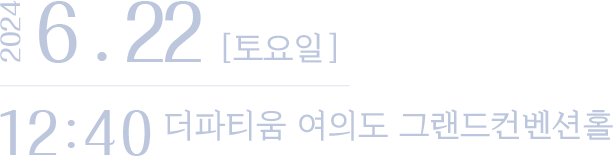
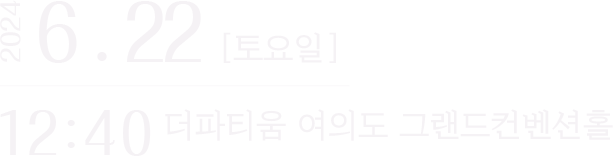
Change :: 오시는 아이콘, 마음, 푸터 추가

diff --git a/src/components/WeddingCalendar.vue b/src/components/WeddingCalendar.vue
@@ -16,21 +16,32 @@
     </div>
     <div class="calendar-body">
       <div class="body-wrapper">
-        <h3 class="title">날짜</h3>
-        <img class="image calendar-image" src="./../assets/image/calendar.png"/>
-        <h3 class="title">오시는 길</h3>
-        <img class="image" src="./../assets/image/map.png"/>
-        <div class="map-address-wrapper">
-          <div>도로명주소</div>
-          <div>서울시 영등포구 은행로 30 (여의도동, 중소기업중앙회)</div>
-          <div>지번주소</div>
-          <div>서울시 영등포구 여의도동 16-2 중소기업중앙회</div>
+        <div class="body-content">
+          <div class="title">2024 / 06</div>
+          <img class="image calendar-image" src="./../assets/image/calendar.png"/>
         </div>
-        <div class="map-icon-wrapper">
-          <div class="map-icon"></div>
-          <div class="map-icon"></div>
-          <div class="map-icon"></div>
-          <div class="map-icon"></div>
+        <div class="body-content">
+          <div class="title">오시는 길</div>
+          <img class="image" src="./../assets/image/map.png"/>
+          <div>
+            <div class="map-title">도로명주소</div>
+            <div class="map-address-wrapper">
+              <div>서울시 영등포구 은행로 30</div>
+              <div>(여의도동, 중소기업중앙회)</div>
+            </div>
+            <div class="map-title">지번주소</div>
+            <div class="map-address-wrapper">
+              <div>서울시 영등포구 여의도동 16-2</div>
+              <div>중소기업중앙회</div>
+            </div>
+
+          </div>
+          <div class="map-icon-wrapper">
+            <div class="map-icon naver-map"></div>
+            <div class="map-icon kakao-map"></div>
+            <div class="map-icon t-map"></div>
+            <div class="map-icon copy"></div>
+          </div>
         </div>
       </div>
     </div>
@@ -42,8 +53,15 @@
   justify-content: center;
   flex-direction: column;
   align-items: center;
-
   width: 100%;
+
+  font-size: 1.4rem;
+  @include tablet {
+    font-size: 1.6rem;
+  }
+  @include desktop {
+    font-size: 2rem;
+  }
 
 
   .calendar-title {
@@ -59,7 +77,6 @@
     }
 
     @include desktop {
-      font-size: 2rem;
       width: 1200px;
       margin: 0;
       left: calc((100% - 1200px) / 2);
@@ -139,7 +156,6 @@
     }
 
     @include desktop {
-      font-size: 2rem;
       width: 1200px;
       margin: 0;
       left: calc((100% - 1200px) / 2);
@@ -151,44 +167,82 @@
       border-radius: 10px 10px 0 0;
       padding: 20px;
       margin: 16px 16px 0 16px;
+      display: flex;
+      flex-direction: column;
+      align-items: center;
+      gap: 40px;
 
-      .image {
-        margin-top: 20px;
-        width: 100%;
-        max-width: 600px;
-      }
+      .body-content {
 
-      .title {
-        color: $light-color-2;
-        text-align: center;
-        font-family: leferi-special;
-      }
+        .image {
+          margin-top: 20px;
+          width: 100%;
+          max-width: 600px;
+        }
 
-      .calendar-image {
-        padding-left: 12px;
-        margin-bottom: 20px;
-      }
+        .title {
+          color: $lighter-color-1;
+          text-align: center;
+          font-size: 120%;
+          font-family: leferi-special;
+        }
 
-      .map-address-wrapper {
-        font-family: leferi-white;
-      }
+        .calendar-image {
+          padding-left: 12px;
+          margin-bottom: 20px;
+        }
 
-      .map-icon-wrapper {
-        display: flex;
-        flex-direction: row;
+        .map-title {
+          margin-top: 10px;
+          color: $lighter-color-1;
+          font-family: leferi;
+        }
 
-        gap: 20px;
-        padding: 20px 0;
+        .map-address-wrapper {
+          display: flex;
+          flex-direction: row;
+          flex-wrap: wrap;
+          font-family: leferi;
+          color: $light-color-2;
 
-        .map-icon {
-          width: 100px;
-          aspect-ratio: 1 / 1;
-          background: pink;
-          border-radius: 50%;
+          div {
+            font-family: leferi-white;
+            padding-right: 8px;
+          }
+        }
 
+        .map-icon-wrapper {
+          display: flex;
+          flex-direction: row;
+          justify-content: space-between;
+          gap: 20px;
+          padding: 30px 0 20px 0;
+
+          .map-icon {
+            width: 20%;
+            max-width: 80px;
+            aspect-ratio: 1 / 1;
+            background: pink;
+            border-radius: 50%;
+
+            &.naver-map {
+              background: center / 150% no-repeat url("../assets/icon/naver_map.png"), white;
+            }
+
+            &.kakao-map {
+              background: center / 90% no-repeat url("../assets/icon/kakao_map.png"), #ffdf00;
+            }
+
+            &.t-map {
+              background: center / 80% no-repeat url("../assets/icon/t_map.svg"), white;
+            }
+
+            &.copy {
+              background: center / 55% no-repeat url("../assets/icon/copy.png"), $lighter-color-1;;
+            }
+          }
         }
       }
-
     }
   }
 

diff --git a/src/components/WeddingFooter.vue b/src/components/WeddingFooter.vue
@@ -1,0 +1,77 @@
+<script>
+</script>
+<template>
+  <div class="footer">
+    <div class="footer-contents">
+      <div>
+        <div>
+          @2024 김혜림
+        </div>
+        <div>
+          GitHub @kimering/<a href="https://github.com/kimering/wedding-card">Wedding-Card</a>
+        </div>
+        <div>
+          LICENSE: CoffeeWare
+        </div>
+      </div>
+      <div class="credit">
+        <div class="credit-role">
+          <div>Produced by</div>
+          <div>Design by</div>
+          <div>Developed by</div>
+          <div>Cheered by</div>
+        </div>
+        <div class="credit-name">
+          <div>김혜림</div>
+          <div>김혜림</div>
+          <div>김혜림</div>
+          <div>김태훈</div>
+        </div>
+      </div>
+    </div>
+  </div>
+</template>
+<style lang="scss">
+.footer {
+  display: flex;
+  flex-direction: column;
+  align-items: center;
+  width: 100vw;
+  padding: 40px 20px;
+  color: black;
+  background-color: #f5f2f5;
+
+  font-size: 2rem;
+  @include tablet {
+    font-size: 2.4rem;
+  }
+  @include desktop {
+    font-size: 2.8rem;
+  }
+
+  .footer-contents {
+    display: flex;
+    flex-direction: row;
+    font-size: 50%;
+    gap: 20px;
+    width: 100%;
+    max-width: 1100px;
+    justify-content: space-between;
+    color: $dark-color-1;
+    font-family: 'Chosunilbo_myungjo';
+
+    .credit {
+      display: flex;
+      flex-direction: row;
+      gap: 12px;
+
+      .credit-role {
+
+      }
+
+      .credit-name {
+      }
+    }
+  }
+}
+</style>

diff --git a/src/components/WeddingContact.vue b/src/components/WeddingContact.vue
@@ -1,0 +1,69 @@
+<script setup>
+</script>
+
+<template>
+  <div class="wedding-contact">
+    <div class="contact-card">
+      <img class="image" src="./../assets/image/sopung_hi.png"/>
+      <div class="contact-card-contents">
+        <div class="title">전하는 말씀</div>
+      </div>
+      <div class="contact-card-contents">
+        <div class="title">연락주실 곳</div>
+      </div>
+    </div>
+  </div>
+</template>
+
+
+<style lang="scss">
+.wedding-contact {
+  margin-top: 20px;
+
+  display: flex;
+  flex-direction: column;
+  align-items: center;
+
+  .contact-card {
+    display: flex;
+    flex-direction: column;
+    align-items: center;
+    background: linear-gradient(to right, #e5ebf2, #a7bbde);
+    border-radius: min(300px, 45vw) min(300px, 45vw) 0 0;
+    text-align: center;
+    width: 100%;
+    color: $dark-color-1;
+
+    font-size: 1.4rem;
+    @include mobile {
+      margin: 0;
+    }
+    @include tablet {
+      width: calc(100% - 60px);
+      font-size: 2rem;
+    }
+
+    @include desktop {
+      width: 1200px;
+      font-size: 2.4rem;
+    }
+
+    .image {
+      padding-top: 30px;
+      width: 50%;
+      max-width: 400px;
+    }
+
+    .contact-card-contents {
+      padding: 20px 0;
+
+      .title {
+        font-size: 120%;
+        font-family: leferi-special;
+      }
+    }
+  }
+
+}
+
+</style>

diff --git a/src/components/WeddingTitle.vue b/src/components/WeddingTitle.vue
@@ -9,9 +9,10 @@
       <div class="title-card-text">
         서로가 서로에게 기꺼이 <br/>
         당신의 유일이 되리라 다짐했습니다. <br/><br/>
-        하나가 되는 날, <br/>
-        오셔서 축하해 주시면 <br/>
-        더없는 기쁨이겠습니다. <br/>
+        하나가 되기로 약속하는 날,<br/>
+        귀한 걸음 함께해 주시기를 기대하겠습니다. <br/>
+        나누어 주시는 모든 격려와 축하를 <br/>
+        저희 두 사람의 오랜 기쁨으로 간직하겠습니다. <br/>
       </div>
       <img class="title-star" src="./../assets/icon/square_star.png"/>
 
@@ -100,8 +101,14 @@
           /*color: red;*/
           font-family: leferi-special;
           color: $dark-color-1;
-          font-size: 20px;
           font-weight: normal;
+          font-size: 2rem;
+          @include tablet {
+            font-size: 2.4rem;
+          }
+          @include desktop {
+            font-size: 2.8rem;
+          }
         }
       }
     }

diff --git a/src/App.vue b/src/App.vue
@@ -2,8 +2,9 @@
 import HelloWedding from "@/components/HelloWedding.vue";
 import WeddingTitle from "@/components/WeddingTitle.vue";
 import PhotoCircle from "@/components/PhotoCircle.vue";
-import WeddingPay from "@/components/WeddingPay.vue";
+import WeddingContact from "@/components/WeddingContact.vue";
 import WeddingCalendar from "@/components/WeddingCalendar.vue";
+import WeddingFooter from "@/components/WeddingFooter.vue";
 </script>
 
 <template>
@@ -12,7 +13,8 @@ import WeddingCalendar from "@/components/WeddingCalendar.vue";
   <!--  <WeddingDay/>-->
   <WeddingCalendar/>
   <PhotoCircle/>
-  <WeddingPay/>
+  <WeddingContact/>
+  <WeddingFooter/>
 
 </template>
 

diff --git a/src/assets/style/_variable.scss b/src/assets/style/_variable.scss
@@ -1,3 +1,4 @@
 $light-color-1: #79a6dd;
 $light-color-2: #bcc7de;
+$lighter-color-1: #f5f2f5;
 $dark-color-1: #073369;
